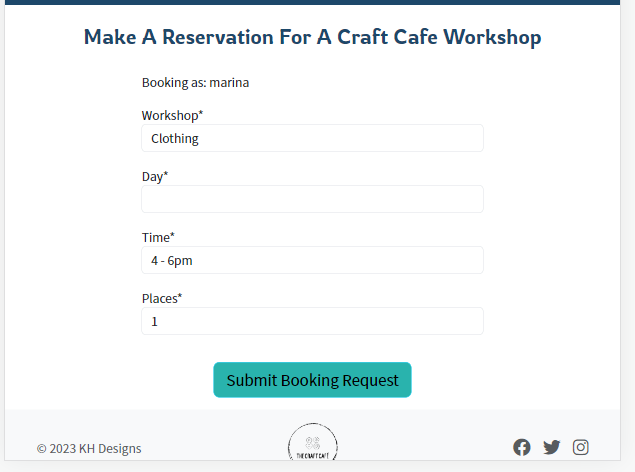
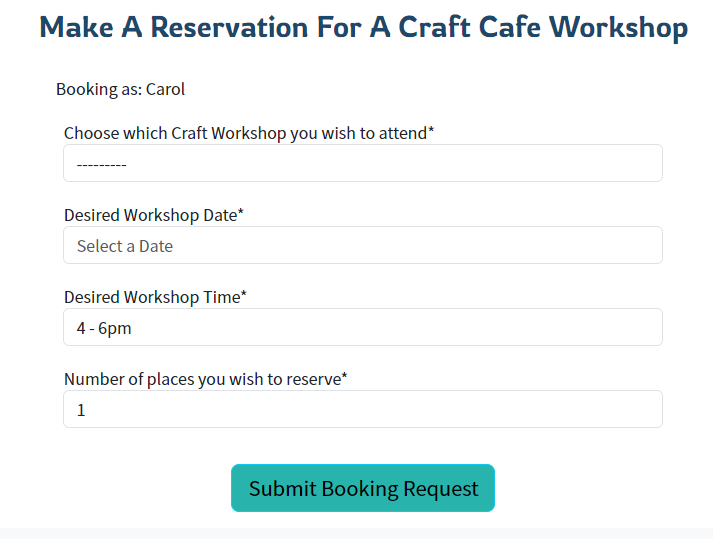
Add placeholder text in post form and comment form

diff --git a/static/js/script.js b/static/js/script.js
@@ -13,9 +13,12 @@ $(document).ready(function() {
     checkWorkshopField();
     setPlaceholders();
 
-    /* Set placeholder text over the booking form date field */
+    /* Set placeholder text over the booking form date field, the Comments comment field */
     function setPlaceholders() {
         $("#id_day").attr('placeholder', 'Select a Date' );
+        $("#id_comment").attr('placeholder', 'Write your comments here');
+        $("#id_content").attr('placeholder', 'Describe your craft creation here');
+        $("#id_title").attr('placeholder', 'Give your post a title');
     }
 
     /* Booking Form Validation - check which workshop option has been selected */

diff --git a/README.md b/README.md
@@ -1,6 +1,6 @@
 # **The Craft Café**
 
-The Craft Café is a regular café where people can go to enjoy a cup of coffee and a piece of cake. However, it's unique selling point is that in the afternoons, Monday to Friday, and on Saturday mornings, it also runs Craft workshops where people can learn crafty skills and make beautiful craft items to take away. Through the Craft Cafe website, users can check the craft workshop schedule, and reserve their places in advance. 
+The Craft Café is a regular café where people can go to enjoy a cup of coffee and a piece of cake. However, it's unique selling point is that in the afternoons, Monday to Friday, and on Saturday mornings, it also runs craft workshops where people can learn crafty skills, socialise with crafty companions, and make beautiful craft items to take away. Through the Craft Cafe website, users can check the craft workshop schedule, and reserve their places in advance, as well as upload photos of their creations and comment on others. 
 
 This fictional site was created for Portfolio Project #4 (Full-Stack Toolkit) - Diploma in Full Stack Software Development Diploma at the [Code Institute](https://www.codeinstitute.net).
 
@@ -49,9 +49,11 @@ This fictional site was created for Portfolio Project #4 (Full-Stack Toolkit) - 
 
 * [**Testing**](<#testing>)
 
-* [Deployment](<#deployment>)
-* [Credits](<#credits>)
-* [Acknowledgements](<#acknowledgements>)
+* [**Deployment**](<#deployment>)
+
+* [**Credits**](<#credits>)
+
+* [**Acknowledgements**](<#acknowledgements>)
 
 # **Project**
 
@@ -184,7 +186,7 @@ Here I have listed the main user stories for three types of user. A normal user 
 
 ## Site Structure
 
-The Craft Café site is split up in two parts: **when the user is logged out** and **when the user is logged in**. Depending on login status different pages are available for the user. When the user is logged out the pages: *Home*, *Food*, and *Craft Workshops* are avaliable from the Navigation Bar menu. When the user is logged in *Contact Us*, *Craft Cafe Community*, and *Profile Page* are available. If you are logged in as an administrator an *admin* dashboard page is also available. The site is intuitive and prompts the user to sign in if they try to access areas which require a user profile.
+The Craft Café site is split up in two parts: **when the user is logged out** and **when the user is logged in**. Depending on login status different pages are available for the user. When the user is logged out the pages: *Home*, *Menu*, and *Craft Workshops* are available from the Navigation Bar menu. When the user is logged in *Bookings*, *Craft Cafe Community*, and *Profile Page* are available. If you are logged in as an administrator an *Admin* dashboard page is also available. The site is intuitive and prompts the user to sign in if they try to access areas which require a user profile.
 
 Read more about the different choices in the [Features](<#features>) section.
 
@@ -317,7 +319,7 @@ When you hover over the cards, the font changes colour to indicate that the titl
 
 ### **Reviews**
 
-Scrolling down past the Workshop Overview Cards, you can read some glowing reviews from Craft Café customers. There is a mixture of reviews to cover all aspects of the products and services it provides. One review relates to the Food, one review relates to the craft workshops and the final review relates to a bespoke craft party that was held at the café.
+Scrolling down past the Workshop Overview Cards, you can read some glowing reviews from Craft Café customers. There is a mixture of reviews to cover all aspects of the products and services it provides. One review relates to the food, one review relates to the craft workshops and the final review relates to a bespoke craft party that was held at the café.
 
 In desktop view, the three reviews can be seen side by side in one row. In tablet and mobile view, only the first two reviews are shown, in tablet view side by side and in mobile view one above the other. 
 
@@ -363,7 +365,7 @@ On desktop and tablet devices, the workshop schedule is displayed with the image
 
 ### **Booking Form**
 
-If you click on the 'Contact Us' menu item from the navigation bar, or you click on the 'Book your Places here' button on the Workshops Page, you will be redirected to the booking request form. 
+If you click on the 'Bookings' menu item from the navigation bar, or you click on the 'Book your Places here' button on the Workshops Page, you will be redirected to the booking request form. 
 
 If you are not logged on, you will see a message saying that you must be logged in to make a booking and there is a link available to login. 
 
@@ -373,7 +375,9 @@ Once the user is logged in, they will be able to see the booking request form.
 
 ![Booking Form - Logged in](static/images/readme/booking-form-tablet.png)
 
-The form consists of four mandatory fields: Workshop, Day, Time, and Places. 
+The form consists of four mandatory fields from the WorkshopBooking model: Workshop, Day, Time, and Places. If the user tries to submit the form without selection a workshop and a date, an alert will be show to remind them to fill in the fields. The Time field and Places field default to the first option on the list. 
+
+![Booking Form - All fields required](static/images/readme/booking-form-incomplete.png)
 
 The calendar field is unavailable until a Workshop category has been selected. The Date field in the booking model is set to null=True so that this field stays empty to begin with until a workshop has been selected. I have also set an attribute of 'Read-Only' to this field so that users can not override the calendar datepicker widget and type in strings or dates in the wrong format or outside of the min and max date parameters set against the datepicker calendar.
 
@@ -397,7 +401,7 @@ Once the user has selected a workshop with a sufficient number of places availab
 
 </details><br/>
 
-Once the booking request is sent successfully, the user can see the details of the booking in their profile page, and monitor the approval status to see when Admin Confirm the booking. There is currently no notification to the user for this status change at present, but in future I would like to add in an email notification system for when bookings are approved and the status changes to confirmed. 
+Once the booking request is sent successfully, the user can see the details of the booking in their profile page, and monitor the approval status to see when Admin confirms the booking. There is currently no external email notification to the user for this status change at present, but in future I would like to add in an email notification system for when bookings are approved and the status changes to confirmed. 
 
 ### **Craft Cafe Community**
 
